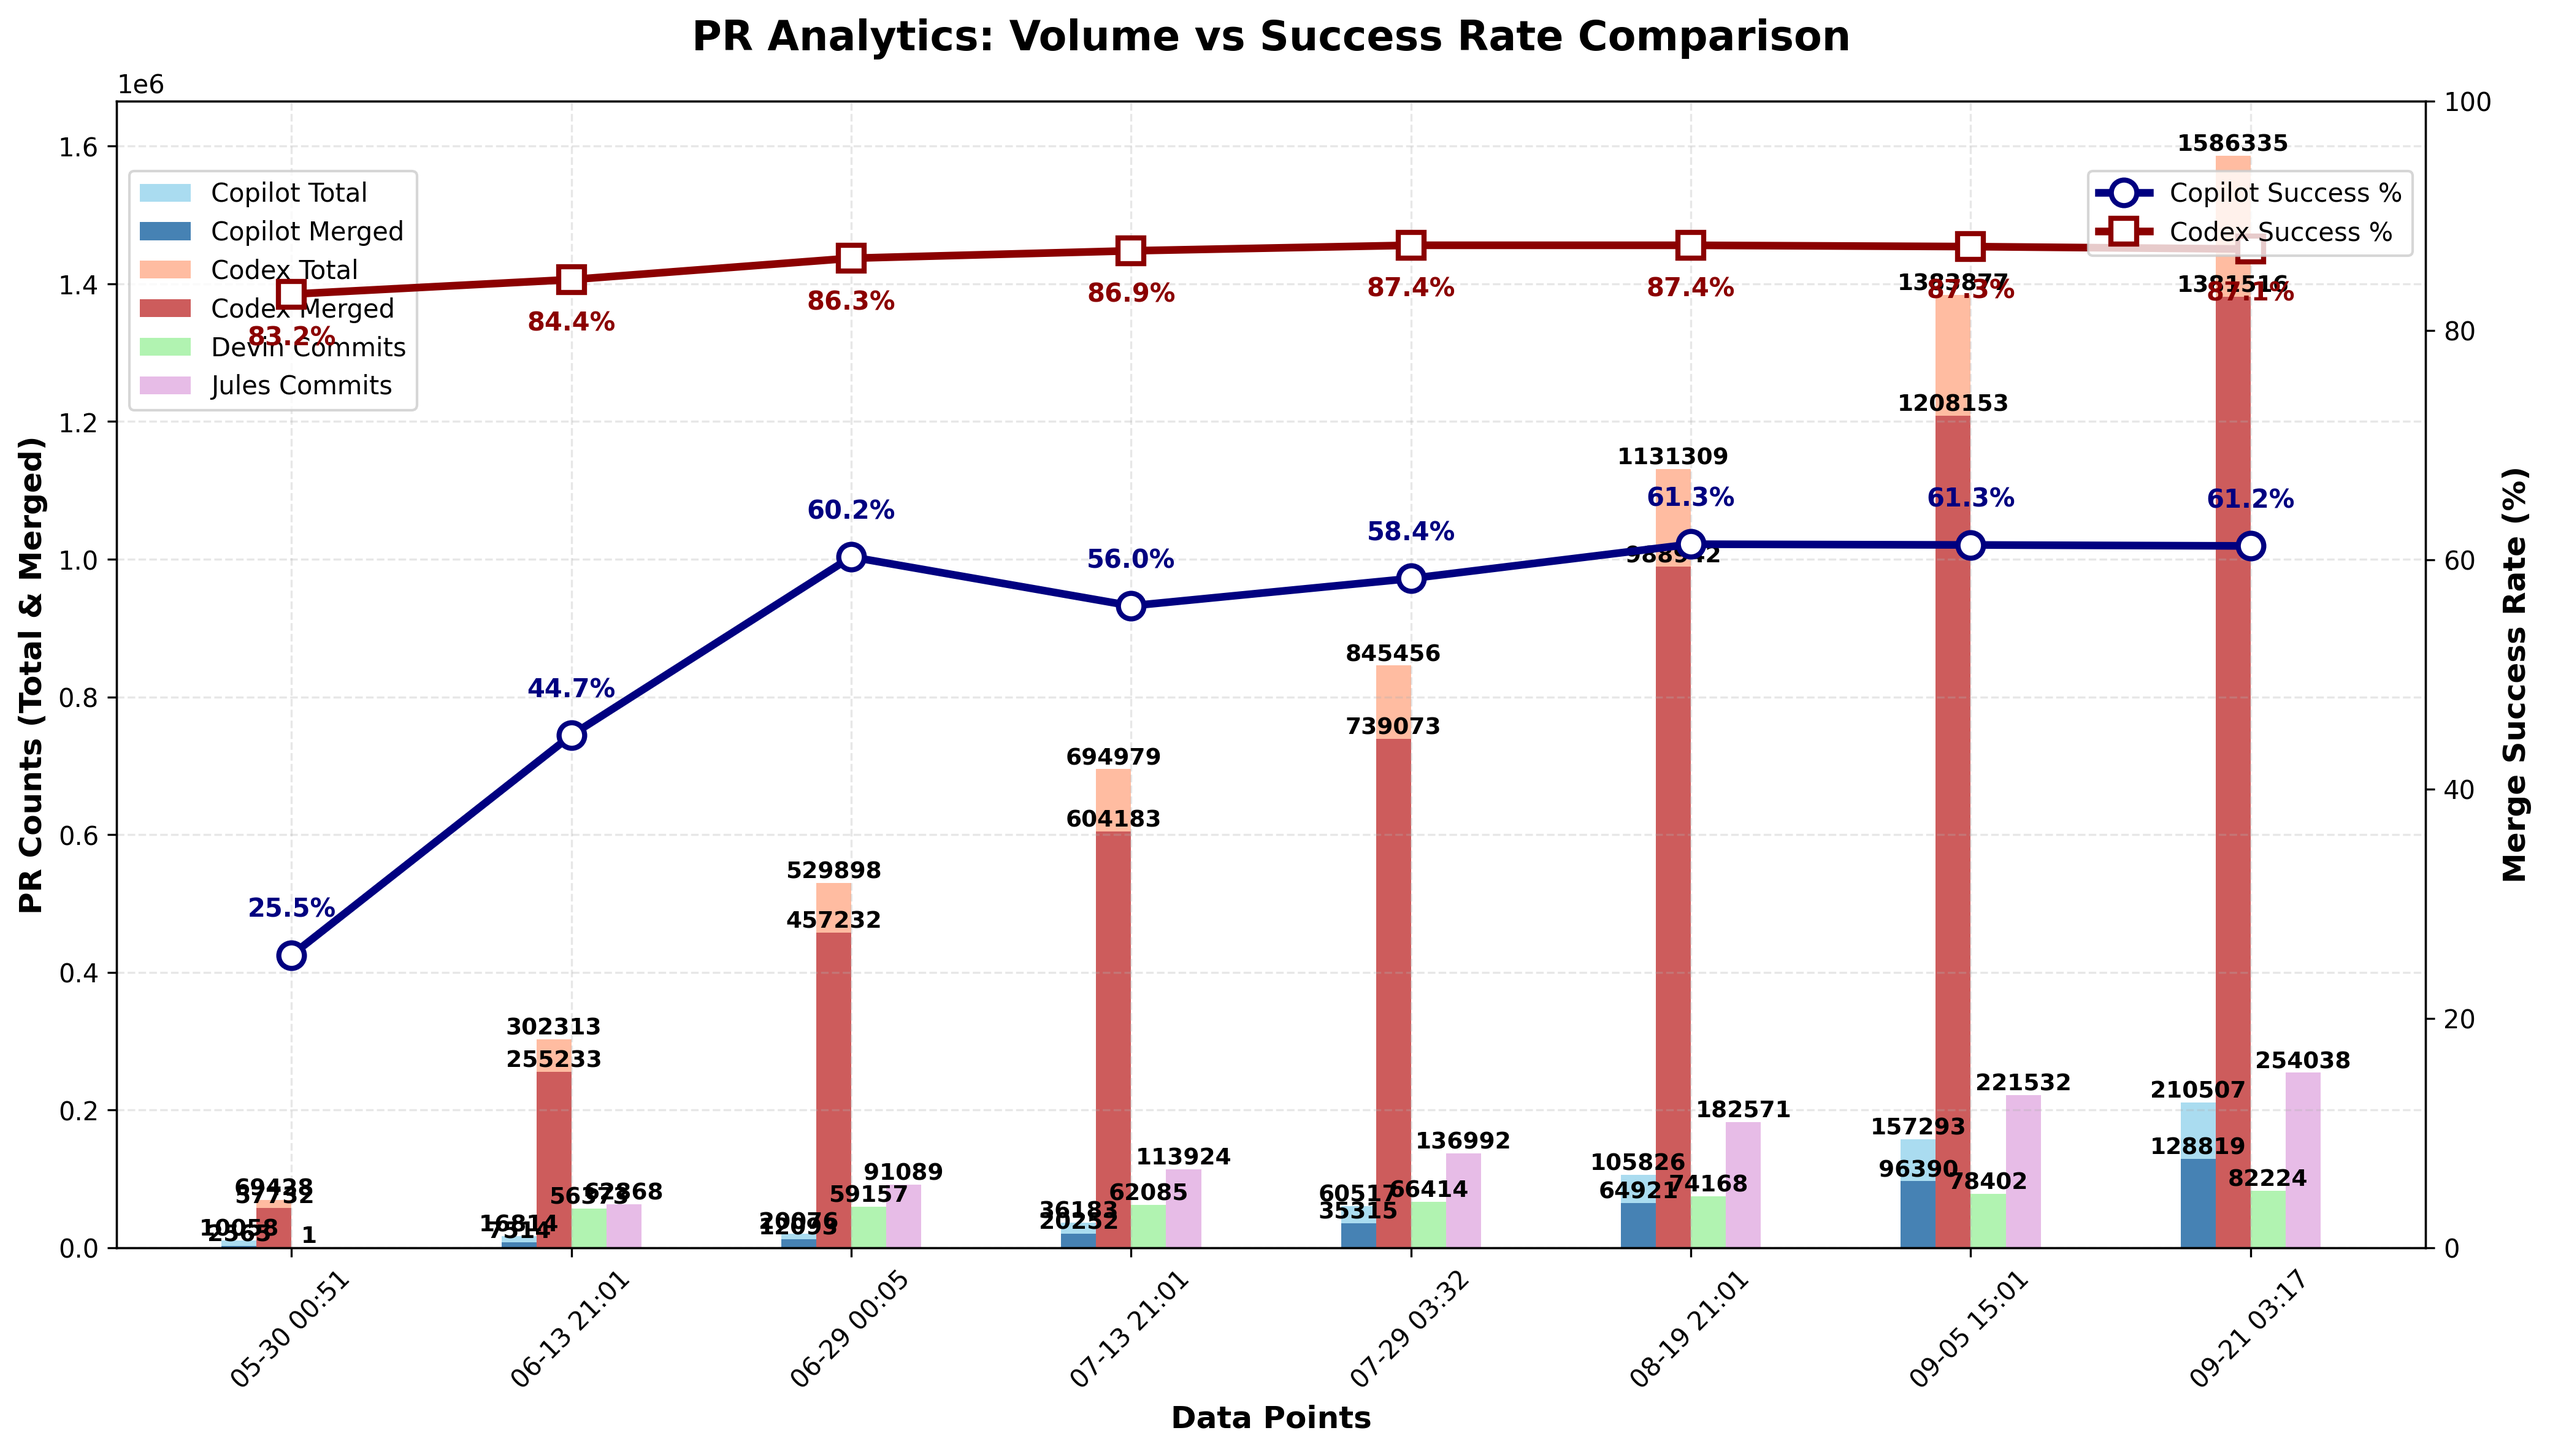
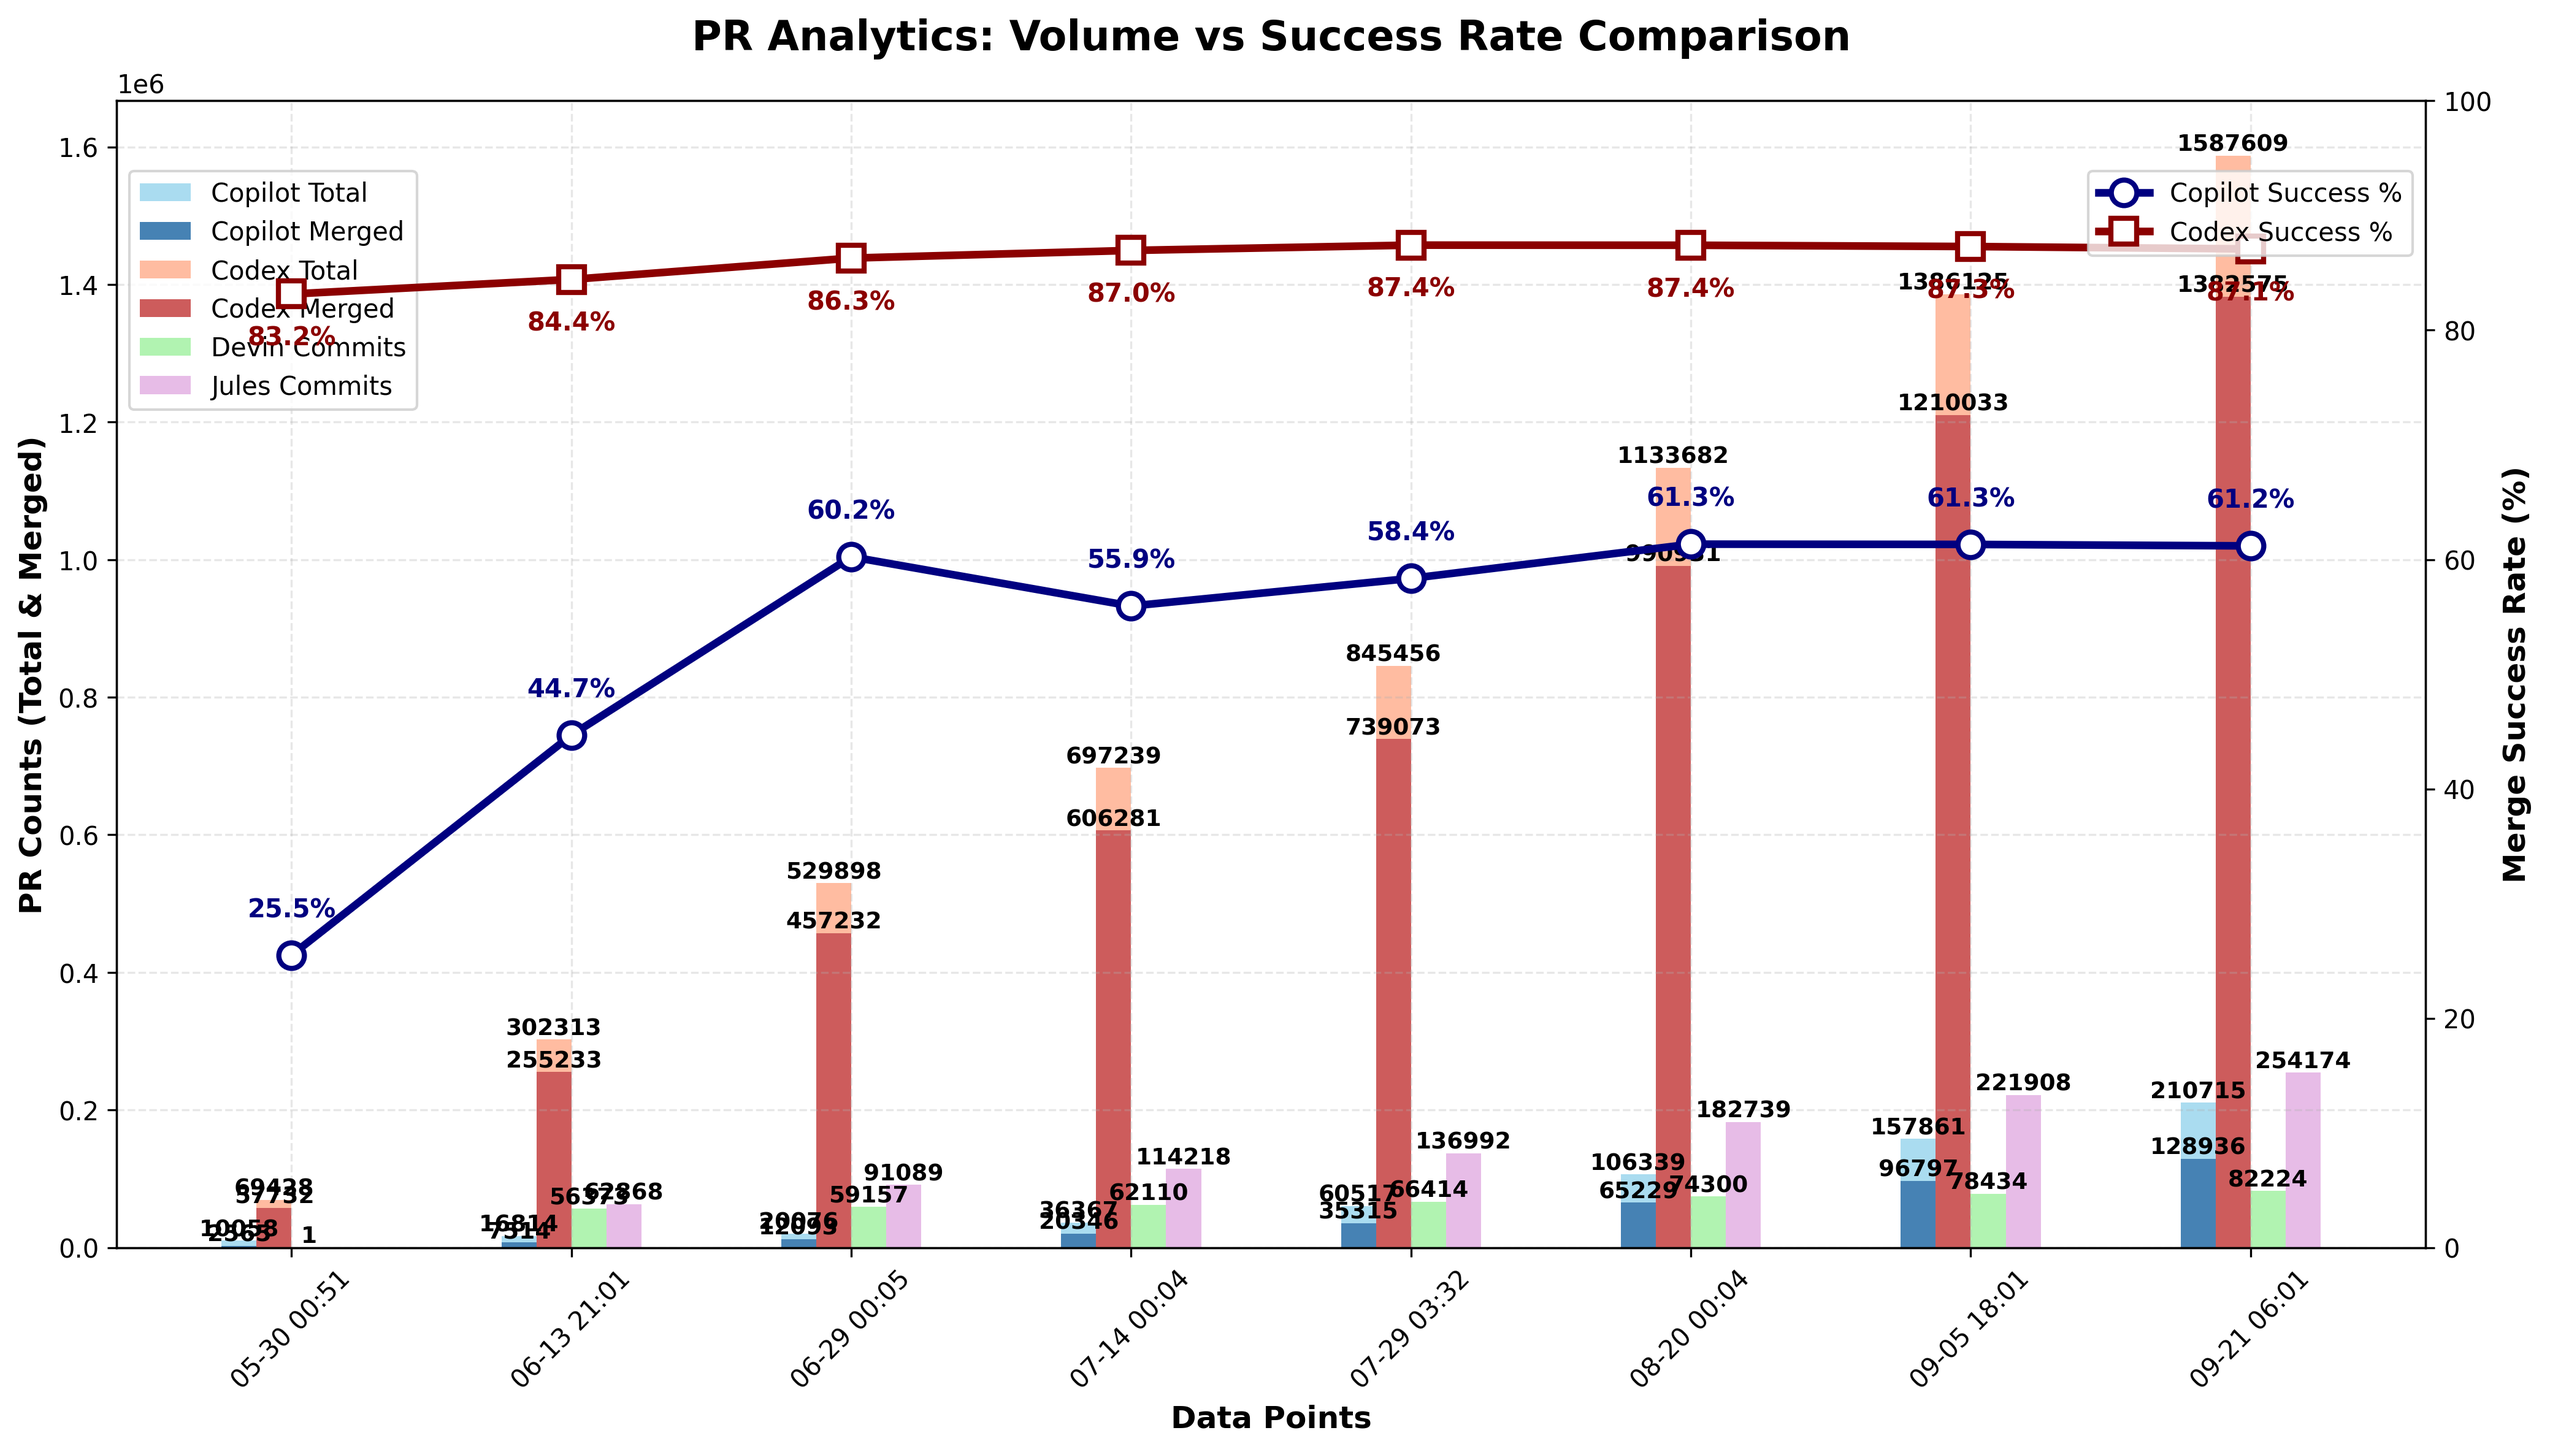
chore: update PR‑approval chart

diff --git a/docs/index.html b/docs/index.html
@@ -885,12 +885,14 @@
                         <td>N/A</td>
                         <td>N/A</td>
                         <td>N/A</td>
+                        <td>N/A</td>
                     </tr>
                     <tr>
                         <td>Codex</td>
                         <td>69,429</td>
                         <td>57,733</td>
                         <td>83.15%</td>
+                        <td>N/A</td>
                         <td>N/A</td>
                         <td>N/A</td>
                         <td>N/A</td>
@@ -1741,14 +1743,14 @@
                         <td>N/A</td>
                         <td>N/A</td>
                         <td>N/A</td>
-                        <td>254,038</td>
+                        <td>254,174</td>
                     </tr>
                     </tbody>
             </table>
         </section>
 
         <footer>
-            <p>Last updated: <span id="last-updated">September 21, 2025 03:17 UTC</span></p>
+            <p>Last updated: <span id="last-updated">September 21, 2025 06:01 UTC</span></p>
             <p><a href="https://github.com/aavetis/ai-pr-watcher">View on GitHub</a></p>
         </footer>
     </div>

diff --git a/README.md b/README.md
@@ -19,7 +19,7 @@ Explore the GitHub search queries used:
 
 | Service | Total PRs | Merged PRs | Merge Rate | Total Commits |
 | ------- | --------- | ---------- | ---------- | ------------- |
-| Copilot | 210,507 | 128,819 | 61.19% | N/A           |
-| Codex   | 1,586,335 | 1,381,516 | 87.09% | N/A           |
+| Copilot | 210,715 | 128,936 | 61.19% | N/A           |
+| Codex   | 1,587,609 | 1,382,575 | 87.09% | N/A           |
 | Devin   | N/A       | N/A        | N/A        | 82,224 |
-| Jules   | N/A       | N/A        | N/A        | 254,038 |
+| Jules   | N/A       | N/A        | N/A        | 254,174 |
